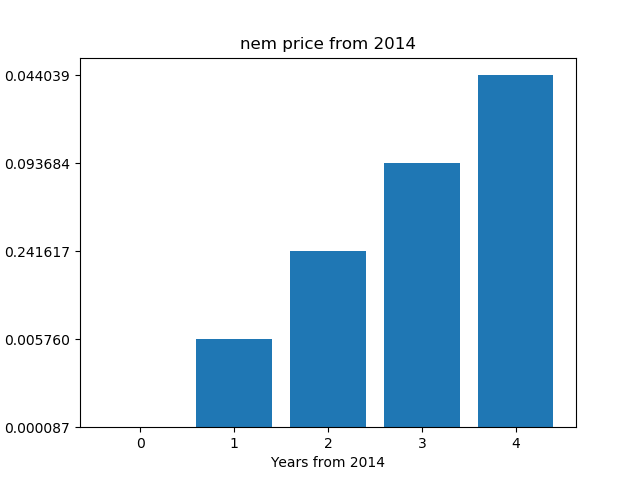
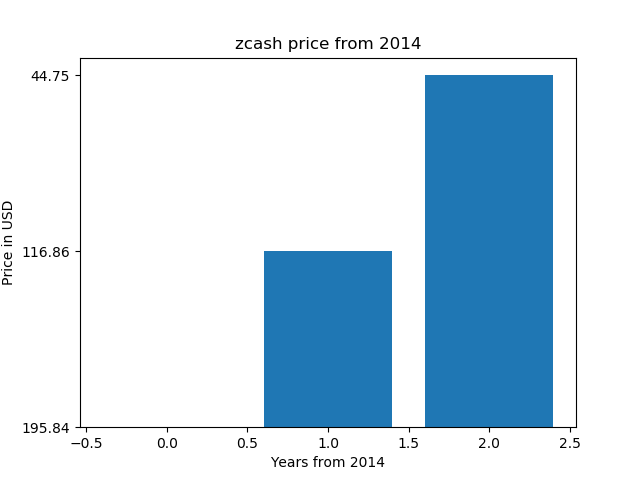
first commit

diff --git a/example.py b/example.py
@@ -10,7 +10,7 @@ from time import gmtime, strftime
 import matplotlib.pyplot as plt
 
 enddate = strftime("%Y%m%d", gmtime())
-r  = requests.get("https://coinmarketcap.com/currencies/nem/historical-data/?start=20140101&end={0}".format(enddate))
+r  = requests.get("https://coinmarketcap.com/currencies/zcash/historical-data/?start=20140101&end={0}".format(enddate))
 data = r.text
 
 soup = BeautifulSoup(data, "html.parser")
@@ -37,7 +37,7 @@ print(prices)
 
 x = list(range(0, len(prices)))
 
-plt.title('nem price from 2014')
+plt.title('zcash price from 2014')
 plt.ylabel('Price in USD')
 plt.xlabel('Years from 2014')
 plt.bar(x, prices)

diff --git a/README.md b/README.md
@@ -1,6 +1,6 @@
-# nem price chart 
+# zcash price chart 
 
-nem price chart (matplotlib, python)
+zcash price chart (matplotlib, python)
 
 https://pythonprogramminglanguage.com
 
